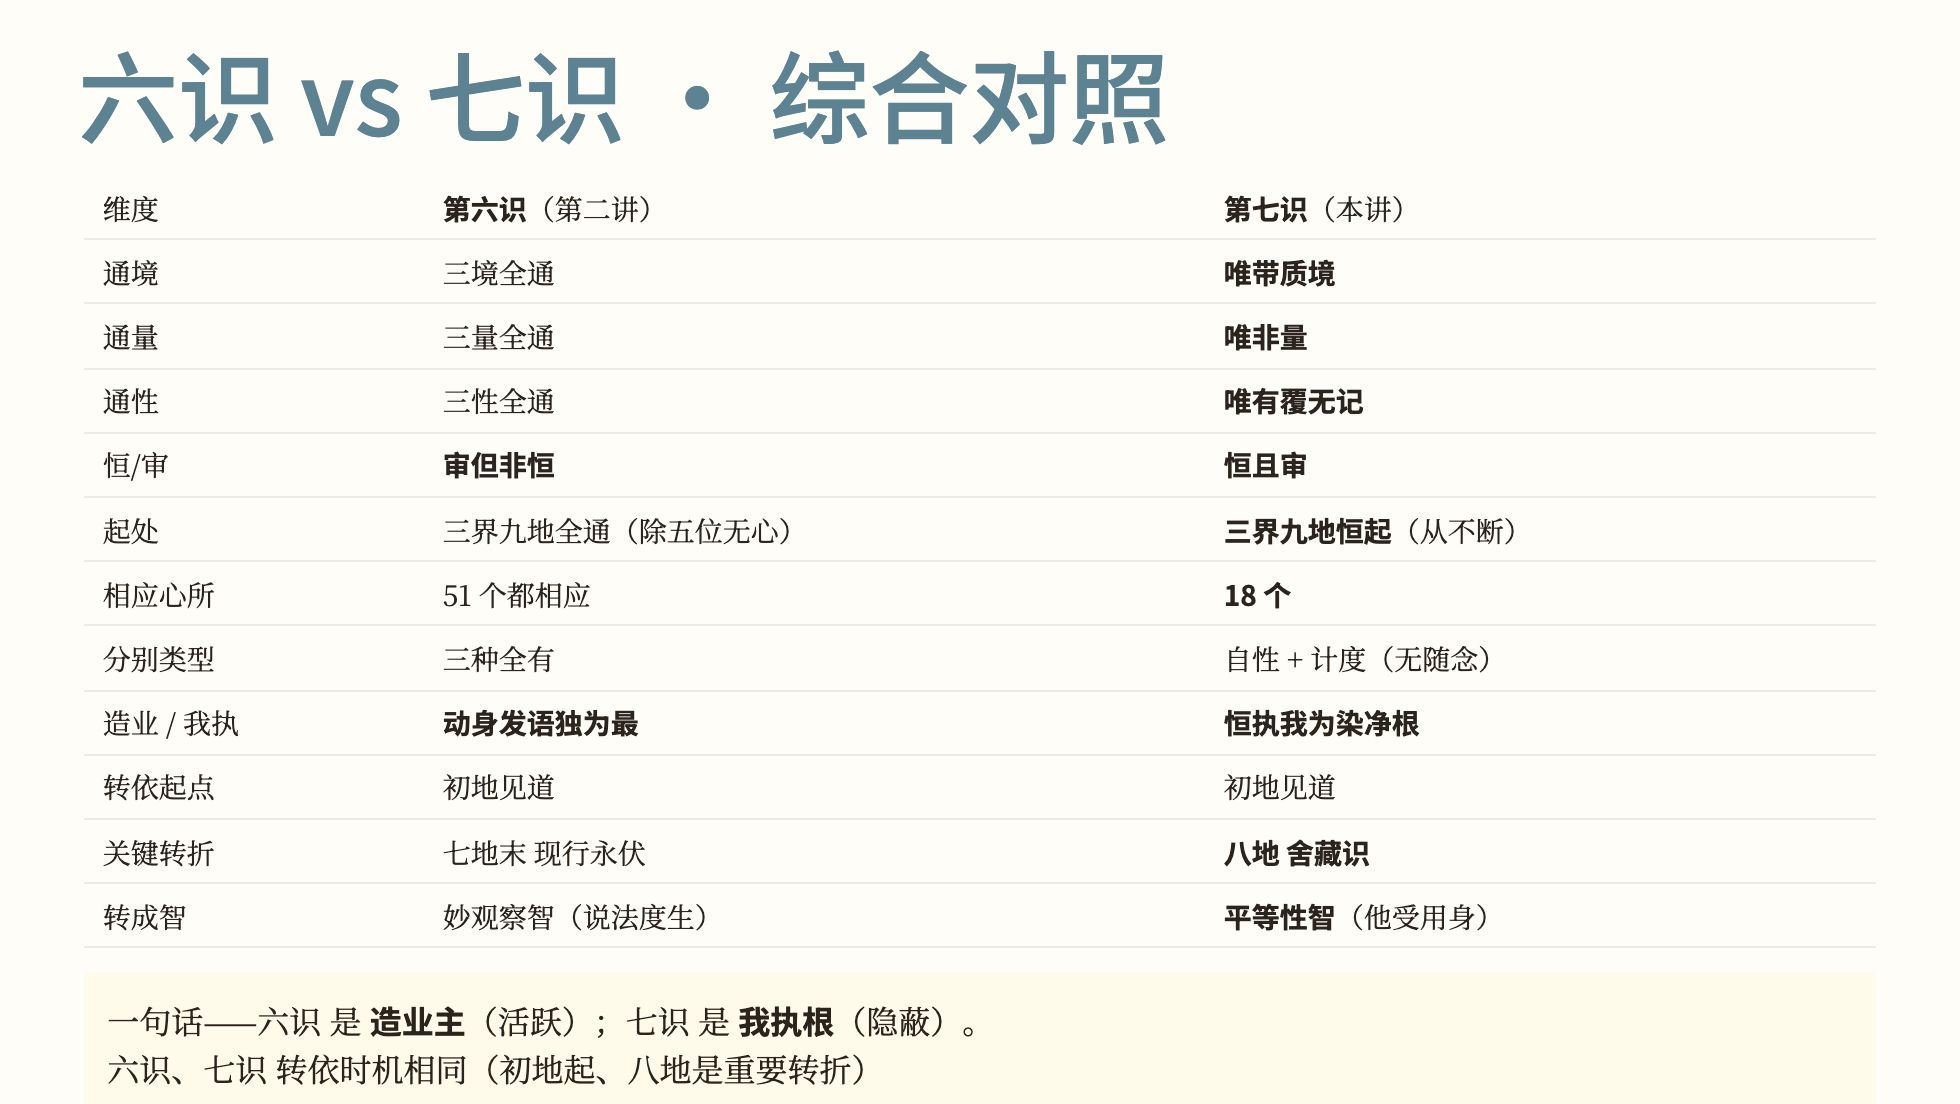
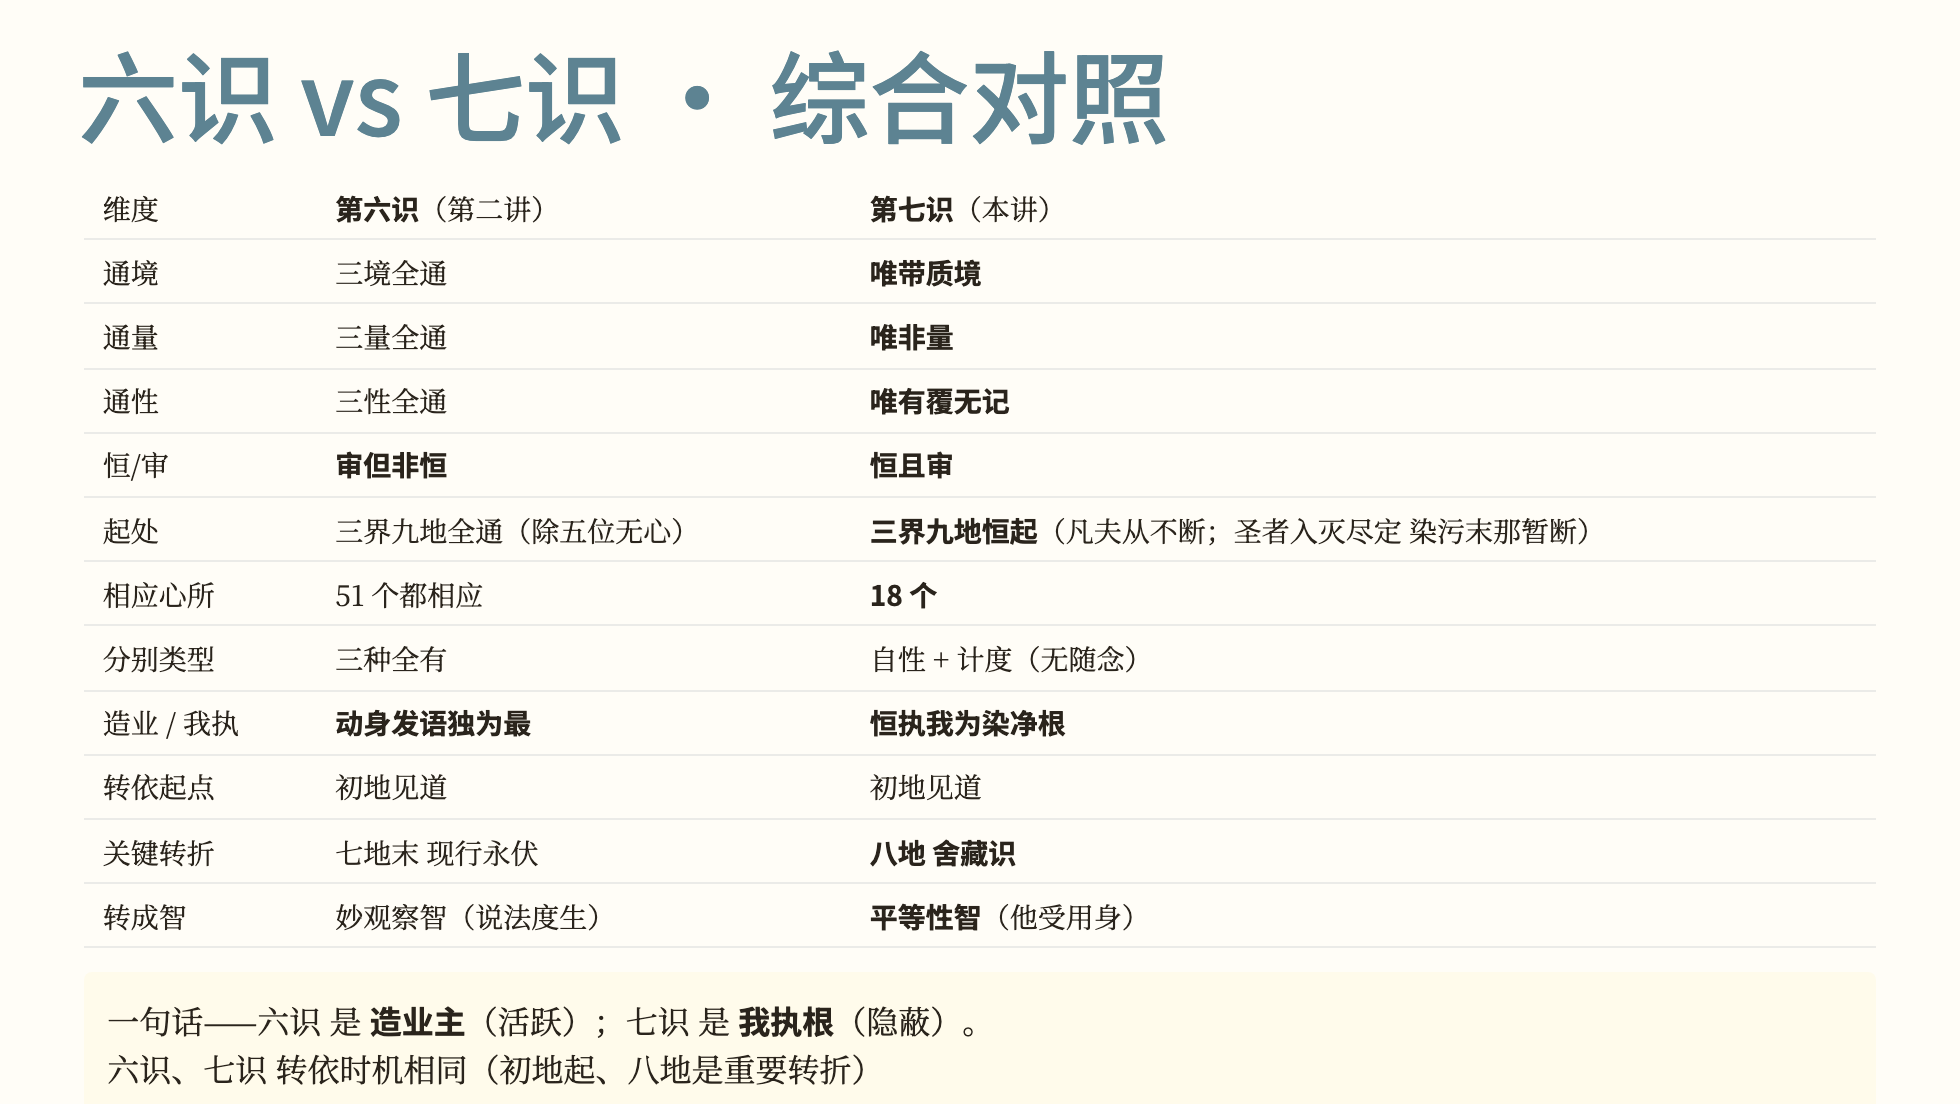
videos: V8 校验修正 — 灭尽定时染污末那也暂断
按《成唯识论》卷 5：灭尽定（三果圣者定）时 前六识 + 染污末那 都断，
只有 第八识 + 无染污末那 不断。

修正 3 处：
- P4 体性：从「从来不断」→「凡夫位从不间断」
- P4 起处：加灭尽定 + 无余涅槃 两个例外
- P26 六识/七识对照表：起处栏加灭尽定例外

diff --git a/videos/bashi-guiju-diqi-slidev/slides.md b/videos/bashi-guiju-diqi-slidev/slides.md
@@ -103,10 +103,10 @@ layout: default
 <div class="text-lg space-y-2 mt-3">
 
 - 「末那」= 梵语 manas，义为「意」——为区别第六**意识**，音译为「末那」
-- 体性：**恒审思量**——**从来不断**（对比前六识：五位无心时暂断）
+- 体性：**恒审思量**——凡夫位从不间断（对比前六识：五位无心时都暂断）
 - 所依：**第八阿赖耶识**
-- 所缘：**第八识的见分**——执之为「我」（实际第八本身**无我**）
-- 起处：**三界九地恒起**（除入无余涅槃）
+- 所缘:**第八识的见分**——执之为「我」（实际第八本身**无我**）
+- 起处：**三界九地恒起**（凡夫从不间断；**圣者入灭尽定** 时 染污末那暂断；**无余涅槃** 后 断）
 
 </div>
 
@@ -118,10 +118,10 @@ layout: default
 <!--
 第七识跟百法的对照。
 「末那」是 梵语 manas 的音译，意思就是「意」。为了跟 第六识 意识 区分，特别音译为「末那」，不直接译为「意」。
-体性 = 恒审思量。从来不断，对比前六识 在五位无心时会暂断，末那 从不停止。
+体性 = 恒审思量。凡夫位 从不间断，对比 前六识 在五位无心时都暂断。
 所依 = 第八阿赖耶识。
 所缘 = 第八识的 见分——把它错执为「我」。实际上 第八本身 无我。
-起处 = 三界九地 恒起——除非入 无余涅槃 才断。
+起处 = 三界九地 恒起。有 两个例外——圣者入 灭尽定 时 染污末那 暂断（凡夫入不了 灭尽定）；无余涅槃 后 彻底 断。
 划一下 重点——末那 有 三个「唯」：唯带质境、唯非量、唯有覆无记。相应 18 个心所，比 第六识 少 33 个。四烦恼常俱——我痴、我见、我慢、我爱 四个 恒相随。
 -->
 
@@ -847,7 +847,7 @@ layout: default
 | 通量 | 三量全通 | **唯非量** |
 | 通性 | 三性全通 | **唯有覆无记** |
 | 恒/审 | **审但非恒** | **恒且审** |
-| 起处 | 三界九地全通（除五位无心） | **三界九地恒起**（从不断） |
+| 起处 | 三界九地全通（除五位无心） | **三界九地恒起**（凡夫从不断；圣者入灭尽定 染污末那暂断）|
 | 相应心所 | 51 个都相应 | **18 个** |
 | 分别类型 | 三种全有 | 自性 + 计度（无随念） |
 | 造业 / 我执 | **动身发语独为最** | **恒执我为染净根** |
